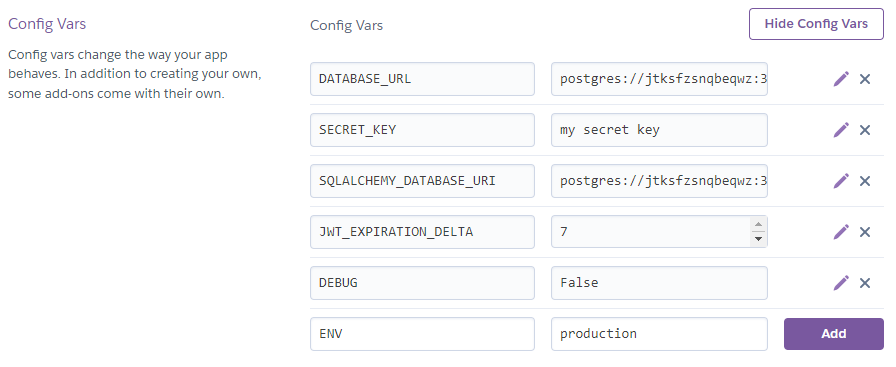
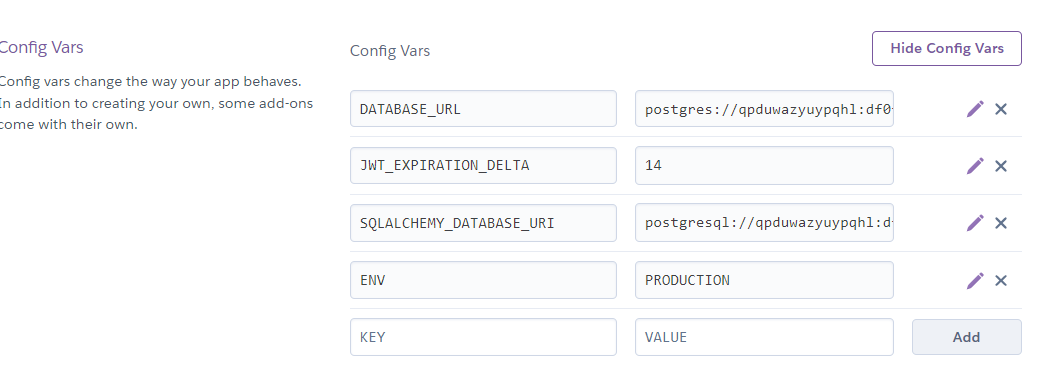
updated config

diff --git a/App/main.py b/App/main.py
@@ -27,15 +27,16 @@ def add_views(app, views):
 
 
 def loadConfig(app, config):
-    app.config['ENV'] = os.environ.get('ENV', 'development')
-    if app.config['ENV'] == "development":
+    app.config['ENV'] = os.environ.get('ENV', 'DEVELOPMENT')
+    if app.config['ENV'] == "DEVELOPMENT":
         app.config.from_object('App.config')
     else:
         app.config['SQLALCHEMY_DATABASE_URI'] = os.environ.get('SQLALCHEMY_DATABASE_URI')
         app.config['SECRET_KEY'] = os.environ.get('SECRET_KEY')
         app.config['JWT_EXPIRATION_DELTA'] = os.environ.get('JWT_EXPIRATION_DELTA')
-        app.config['DEBUG'] = os.environ.get('DEBUG', 'false').upper() == "TRUE"
+        app.config['DEBUG'] = app.config['ENV'] != "PRODUCTION"
 
+    # hard overrides for the testing
     for key,value in config.items():
         app.config[key] = config[key]
 

diff --git a/App/config.py b/App/config.py
@@ -1,5 +1,4 @@
 SQLALCHEMY_DATABASE_URI = "sqlite:///temp-database.db"
 SECRET_KEY = "secret key"
 JWT_EXPIRATION_DELTA = 7
-DEBUG = True
-ENV = "development"
+ENV = "DEVELOPMENT"

diff --git a/readme.md b/readme.md
@@ -22,19 +22,27 @@ Instead, all config is provided by a config file or via [environment varables](h
 
 ## In Development
 
-When running the project in a development environment (such as gitpod) the app is configured via config.py file in the App folder. By default, the config for development uses a sqlite database test.db.
+When running the project in a development environment (such as gitpod) the app is configured via config.py file in the App folder. By default, the config for development uses a sqlite database.
+
+config.py
+```python
+SQLALCHEMY_DATABASE_URI = "sqlite:///temp-database.db"
+SECRET_KEY = "secret key"
+JWT_EXPIRATION_DELTA = 7
+ENV = "DEVELOPMENT"
+```
 
 ## In Production
 
 When deploying your application to production/staging you must pass
-in configuration information via enviornment variables. For heroku you need to navigate to your application's setting page (url should look like https://dashboard.heroku.com/apps/[app-name]/settings) and scroll down to config vars.
-Then provide your configuration as shown in the image below. 
+in configuration information via enviornment variables. For heroku, you need to navigate to your application's setting page (url should look like https://dashboard.heroku.com/apps/[app-name]/settings) and scroll down to config vars.
+Then provide your configuration by defining the same values given in config.py 
 
 ![heroku screenshot](images/fig1.png)
 
-When deploying to production the "ENV" variable should be set to "production". 
+When deploying to production the "ENV" variable should be set to "PRODUCTION". 
 
-**Note** heroku provides a default variable "DATABASE_URL" for heorku postgres. If you want the app to use this database you must copy the value to the variable "SQLALCHEMY_DATABASE_URL".
+**Note** heroku provides a default variable "DATABASE_URL" for heorku postgres. If you want the app to use this database you must copy the value to the variable "SQLALCHEMY_DATABASE_URL" and change the protocl to "postgresql://" for sql alchemmy.
 
 # Manage.py Commands
 
